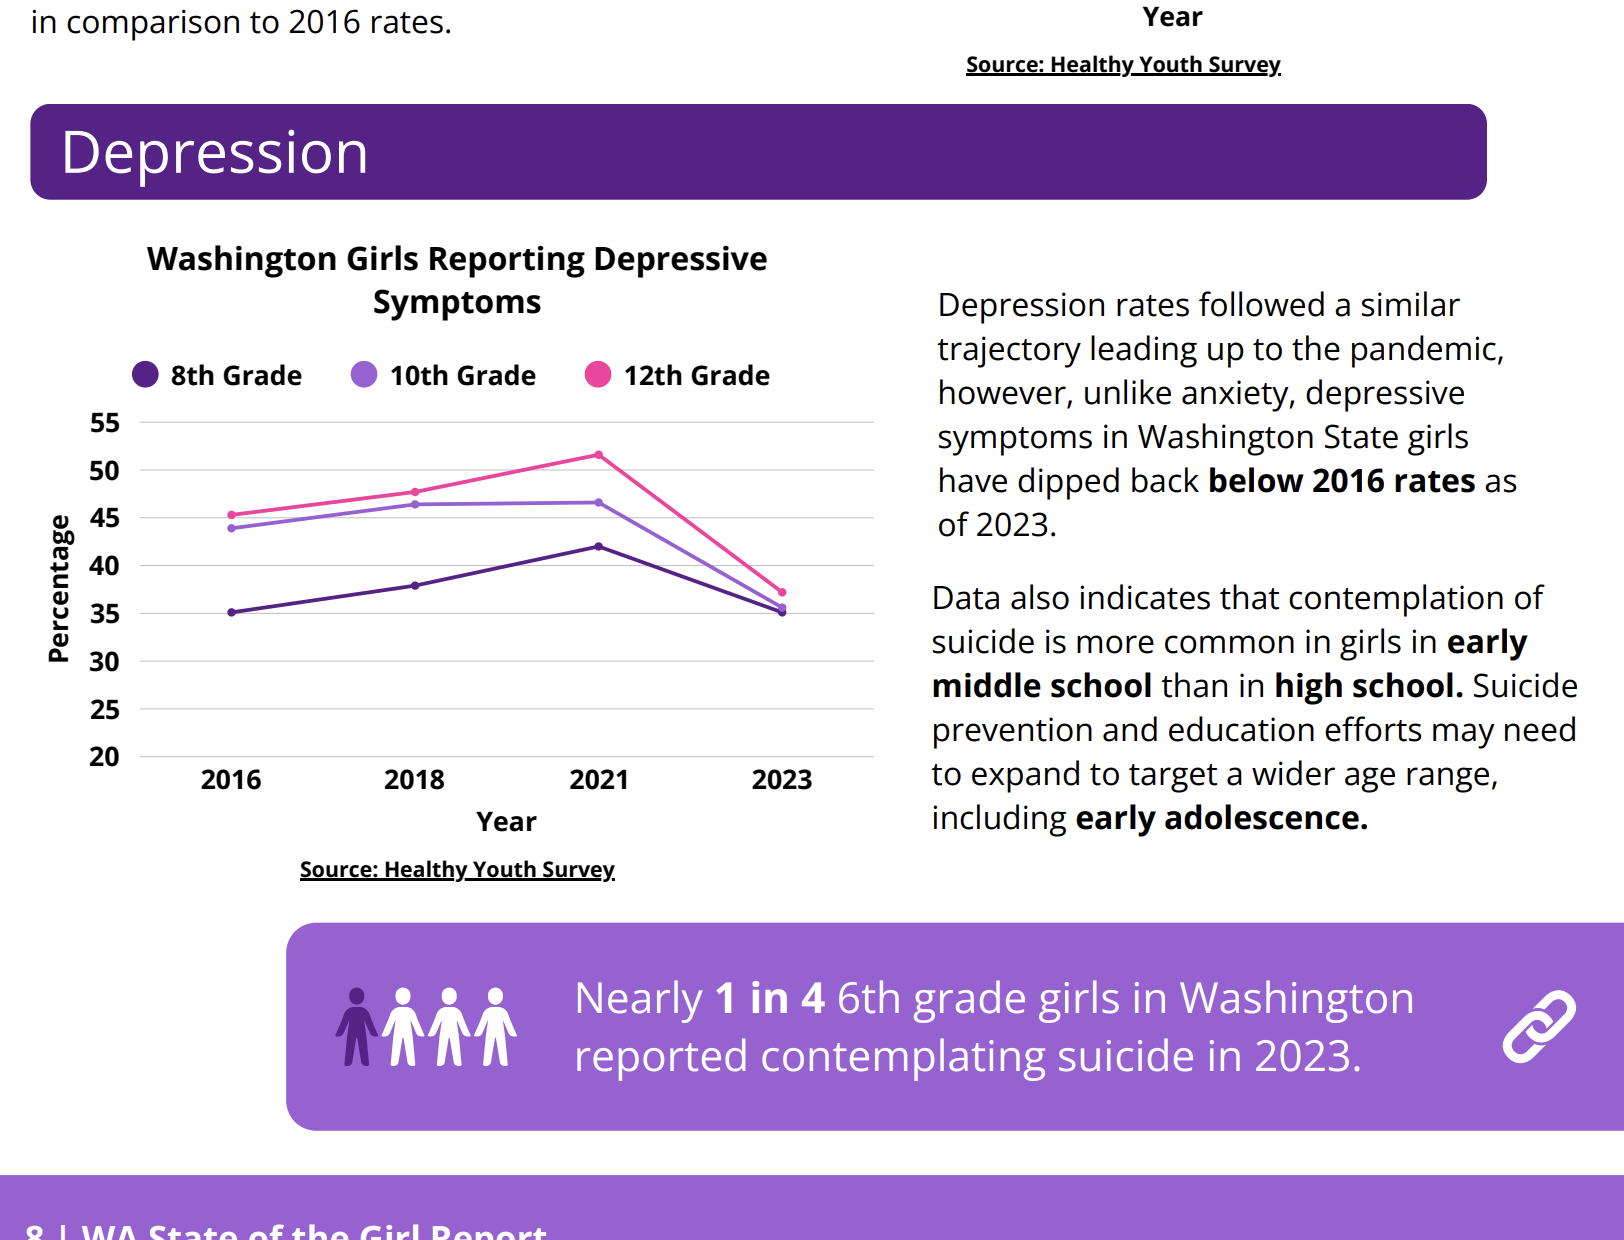
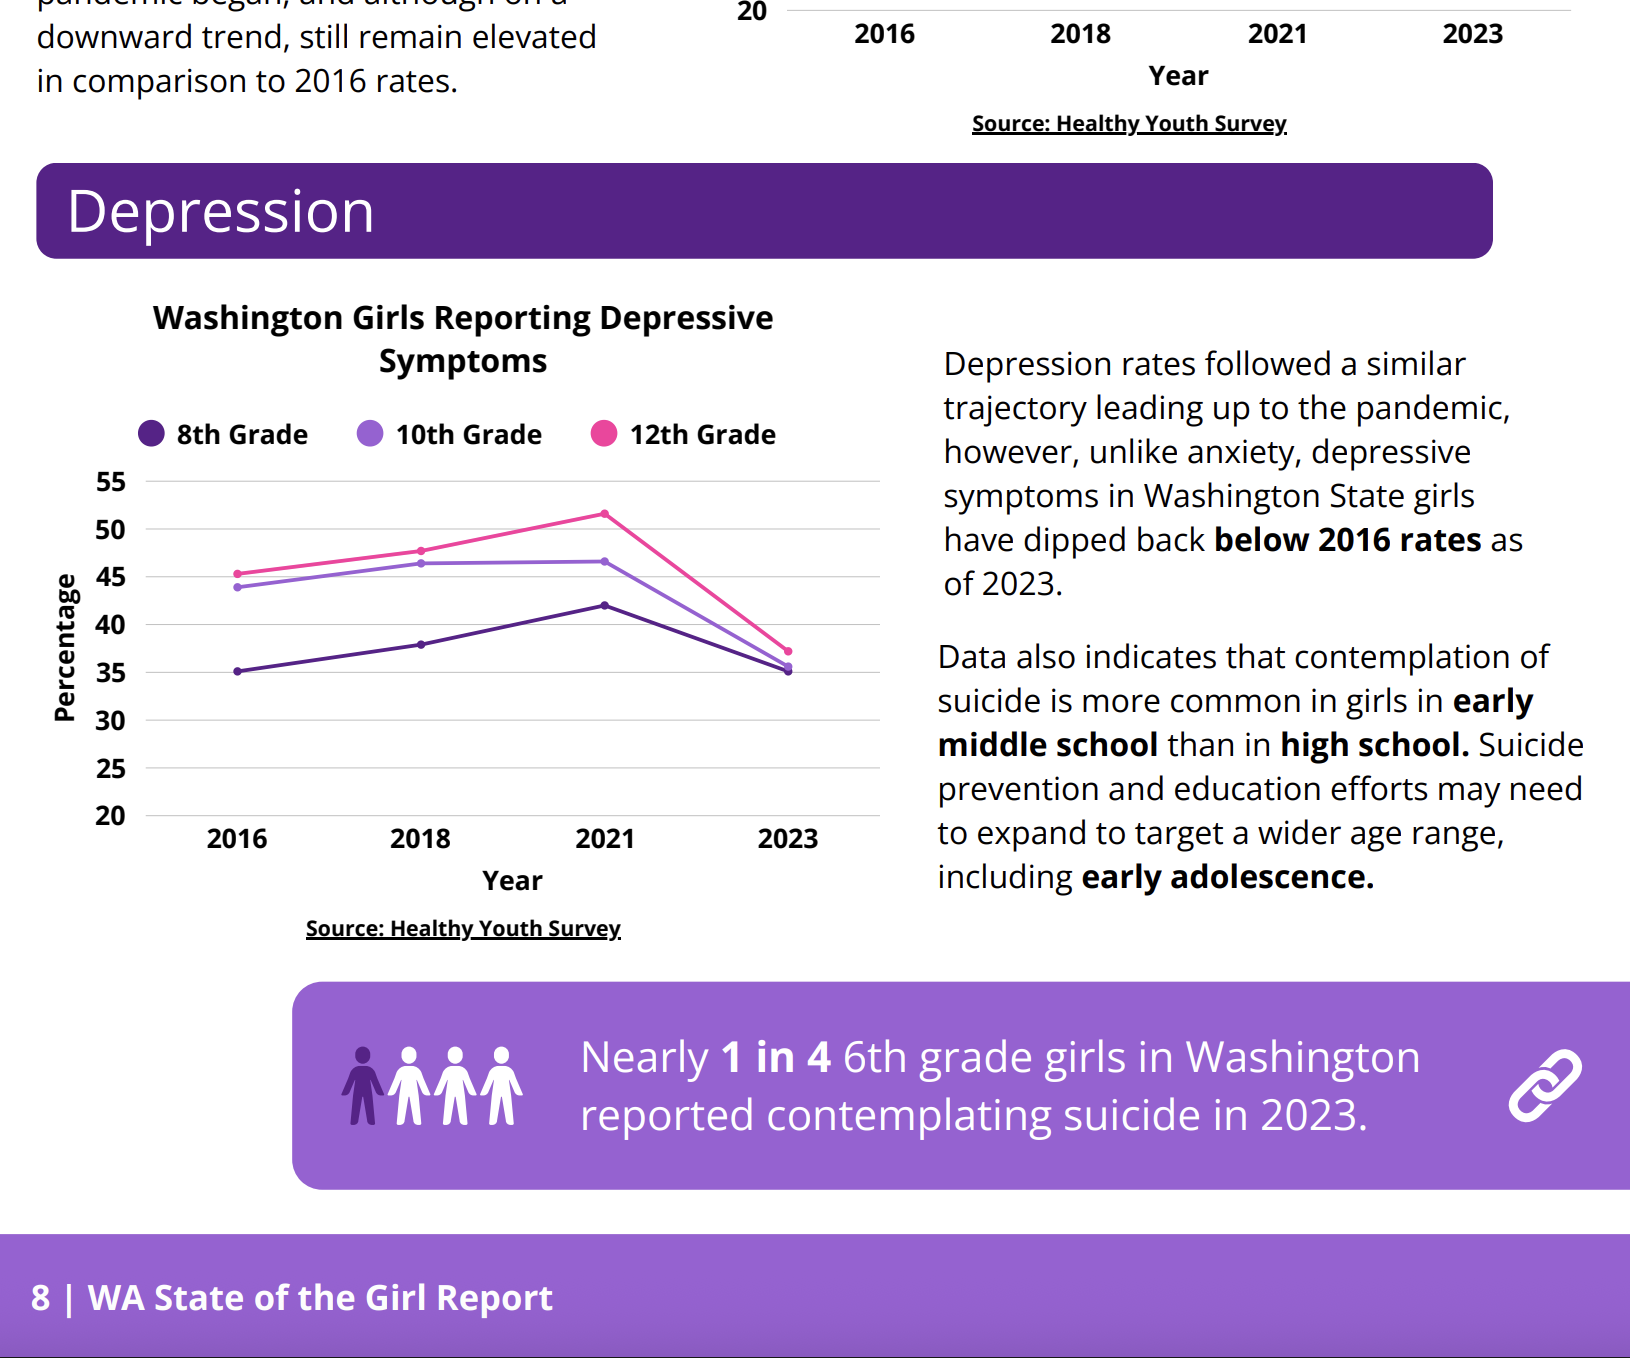
tweaks to about page and project section

diff --git a/index.html b/index.html
@@ -67,10 +67,10 @@
                 <div class="details-container">
                   <img src="./assets/graduation.png" alt="graduation cap icon" class="icon" />
                   <h3>Education</h3>
-                  <p class="degree">B.S. Informatics;</p>
+                  <p class="degree">B.S. Informatics:</p>
                   <p class="degree">Data Science<br /></p>
-                  <p>University of Washington</p>
-                  <p>Summer 2026</p>  
+                  <p>UW</p>
+                  <p>2026</p>  
                 </div>
                 <div class="details-container">
                       <img src="./assets/suitcase.png" alt="suitcase icon" class="icon"/>
@@ -97,7 +97,7 @@
                       <strong>Hi, I'm Hannah!</strong> I'm an Informatics student at the University of Washington studying Data Science. From <strong>exploratory data analysis</strong> to <strong>machine learning</strong>, I love digging deeper into data to uncover useful information that might otherwise go overlooked. I believe that data can be incredibly powerful if you know what to look for, and <strong>that's where my primary interest lies.</strong>
                   </p>
                   <p>
-                    In my free time, I like to knit (so far I have knit a sweater and a giant shawl!), read (I am always taking book recs), and do crosswords (so far I can only solve up to Thursday of the NYT without cheating...), among other things.
+                    In my free time, I like to knit, read (I am always taking book recs!), and do crosswords.
                   </p>
               </div>
           </div>
@@ -286,7 +286,7 @@
         </div>
         <div class="details-container color-container">
           <div class="article-container">
-            <img src="./assets/GSWW.png" alt="Screenshot of data report on Washington State girls' mental health" class="project-img" />
+            <img src="./assets/GSWWlogo2.jpg" alt="Screenshot of data report on Washington State girls' mental health" class="project-img" />
           </div>
         
           <h2 class="skills-subtitle project-title">State of the Girl Report</h2>
